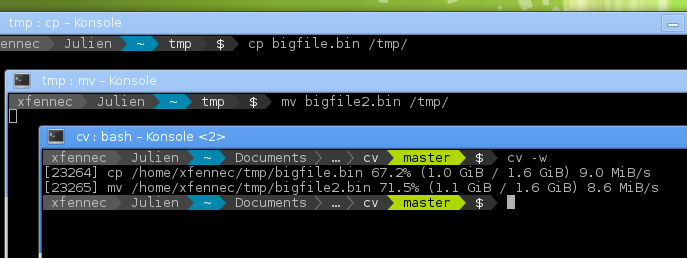
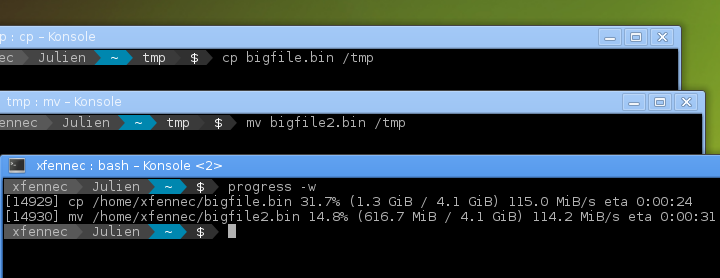
Renaming cv to progress.

diff --git a/progress.c b/progress.c
@@ -1,5 +1,5 @@
 /*
-   Copyright (C) 2014 Xfennec, CQFD Corp.
+   Copyright (C) 2015 Xfennec, CQFD Corp.
 
    This program is free software: you can redistribute it and/or modify
    it under the terms of the GNU General Public License as published by
@@ -47,7 +47,7 @@
 # include <linux/fs.h>
 #endif
 
-#include "cv.h"
+#include "progress.h"
 #include "sizes.h"
 #include "hlist.h"
 
@@ -468,12 +468,12 @@ while(1) {
 
     switch (c) {
         case 'v':
-            printf("cv version %s\n",CV_VERSION);
+            printf("progress version %s\n",PROGRESS_VERSION);
             exit(EXIT_SUCCESS);
             break;
 
         case 'h':
-            printf("cv - Coreutils Viewer\n");
+            printf("progress - Coreutils Viewer\n");
             printf("---------------------\n");
             printf("Shows running coreutils basic commands and displays stats.\n");
             printf("Supported commands: ");

diff --git a/progress.h b/progress.h
@@ -1,5 +1,5 @@
-#ifndef CV_MAIN_H
-#define CV_MAIN_H
+#ifndef PROGRESS_MAIN_H
+#define PROGRESS_MAIN_H
 
 #include <sys/types.h>
 #include <sys/stat.h>
@@ -8,7 +8,7 @@
 
 #include "hlist.h"
 
-#define CV_VERSION         "0.7"
+#define PROGRESS_VERSION         "0.7"
 
 #define PROC_PATH       "/proc"
 #define MAX_PIDS        32

diff --git a/hlist.h b/hlist.h
@@ -1,5 +1,5 @@
-#ifndef CV_HLIST_H
-#define CV_HLIST_H
+#ifndef PROGRESS_HLIST_H
+#define PROGRESS_HLIST_H
 
 typedef struct hlist {
   struct hlist *prev;

diff --git a/sizes.h b/sizes.h
@@ -1,5 +1,5 @@
-#ifndef CV_SIZES_H
-#define CV_SIZES_H
+#ifndef PROGRESS_SIZES_H
+#define PROGRESS_SIZES_H
 
 #include <inttypes.h>
 #include <stdio.h>

diff --git a/README.md b/README.md
@@ -1,4 +1,4 @@
-cv - Coreutils Viewer
+progress - Coreutils Progress Viewer (formerly known as cv)
 =====================
 
 What is it?
@@ -11,7 +11,7 @@ percentage of copied data.
 
 It can now also estimate throughput (using flag `-w`).
 
-![cv screenshot with cp and mv](https://raw.github.com/Xfennec/cv/master/capture.png)
+![progress screenshot with cp and mv](https://raw.github.com/Xfennec/progress/master/capture.png)
 
 _(After many requests: the colors in the shell come from [powerline-shell](https://github.com/milkbikis/powerline-shell). Try it, it's cool.)_
 
@@ -29,7 +29,7 @@ It depends on library ncurses, you may have to install corresponding packages (m
 How do you run it?
 ------------------
 
-Just launch the binary, `cv`.
+Just launch the binary, `progress`.
 
 
 What can I do with it?
@@ -40,19 +40,19 @@ A few examples. You can:
 * monitor all current and upcoming instances of coreutils commands in
   a simple window:
 
-        watch cv -q
+        watch progress -q
 
 * see how your download is progressing:
 
-        watch cv -wc firefox
+        watch progress -wc firefox
 
 * look at your Web server activity:
 
-        cv -c httpd
+        progress -c httpd
 
 * launch and monitor any heavy command using `$!`:
 
-        cp bigfile newfile & cv -mp $!
+        cp bigfile newfile & progress -mp $!
 
 and much more.
 
